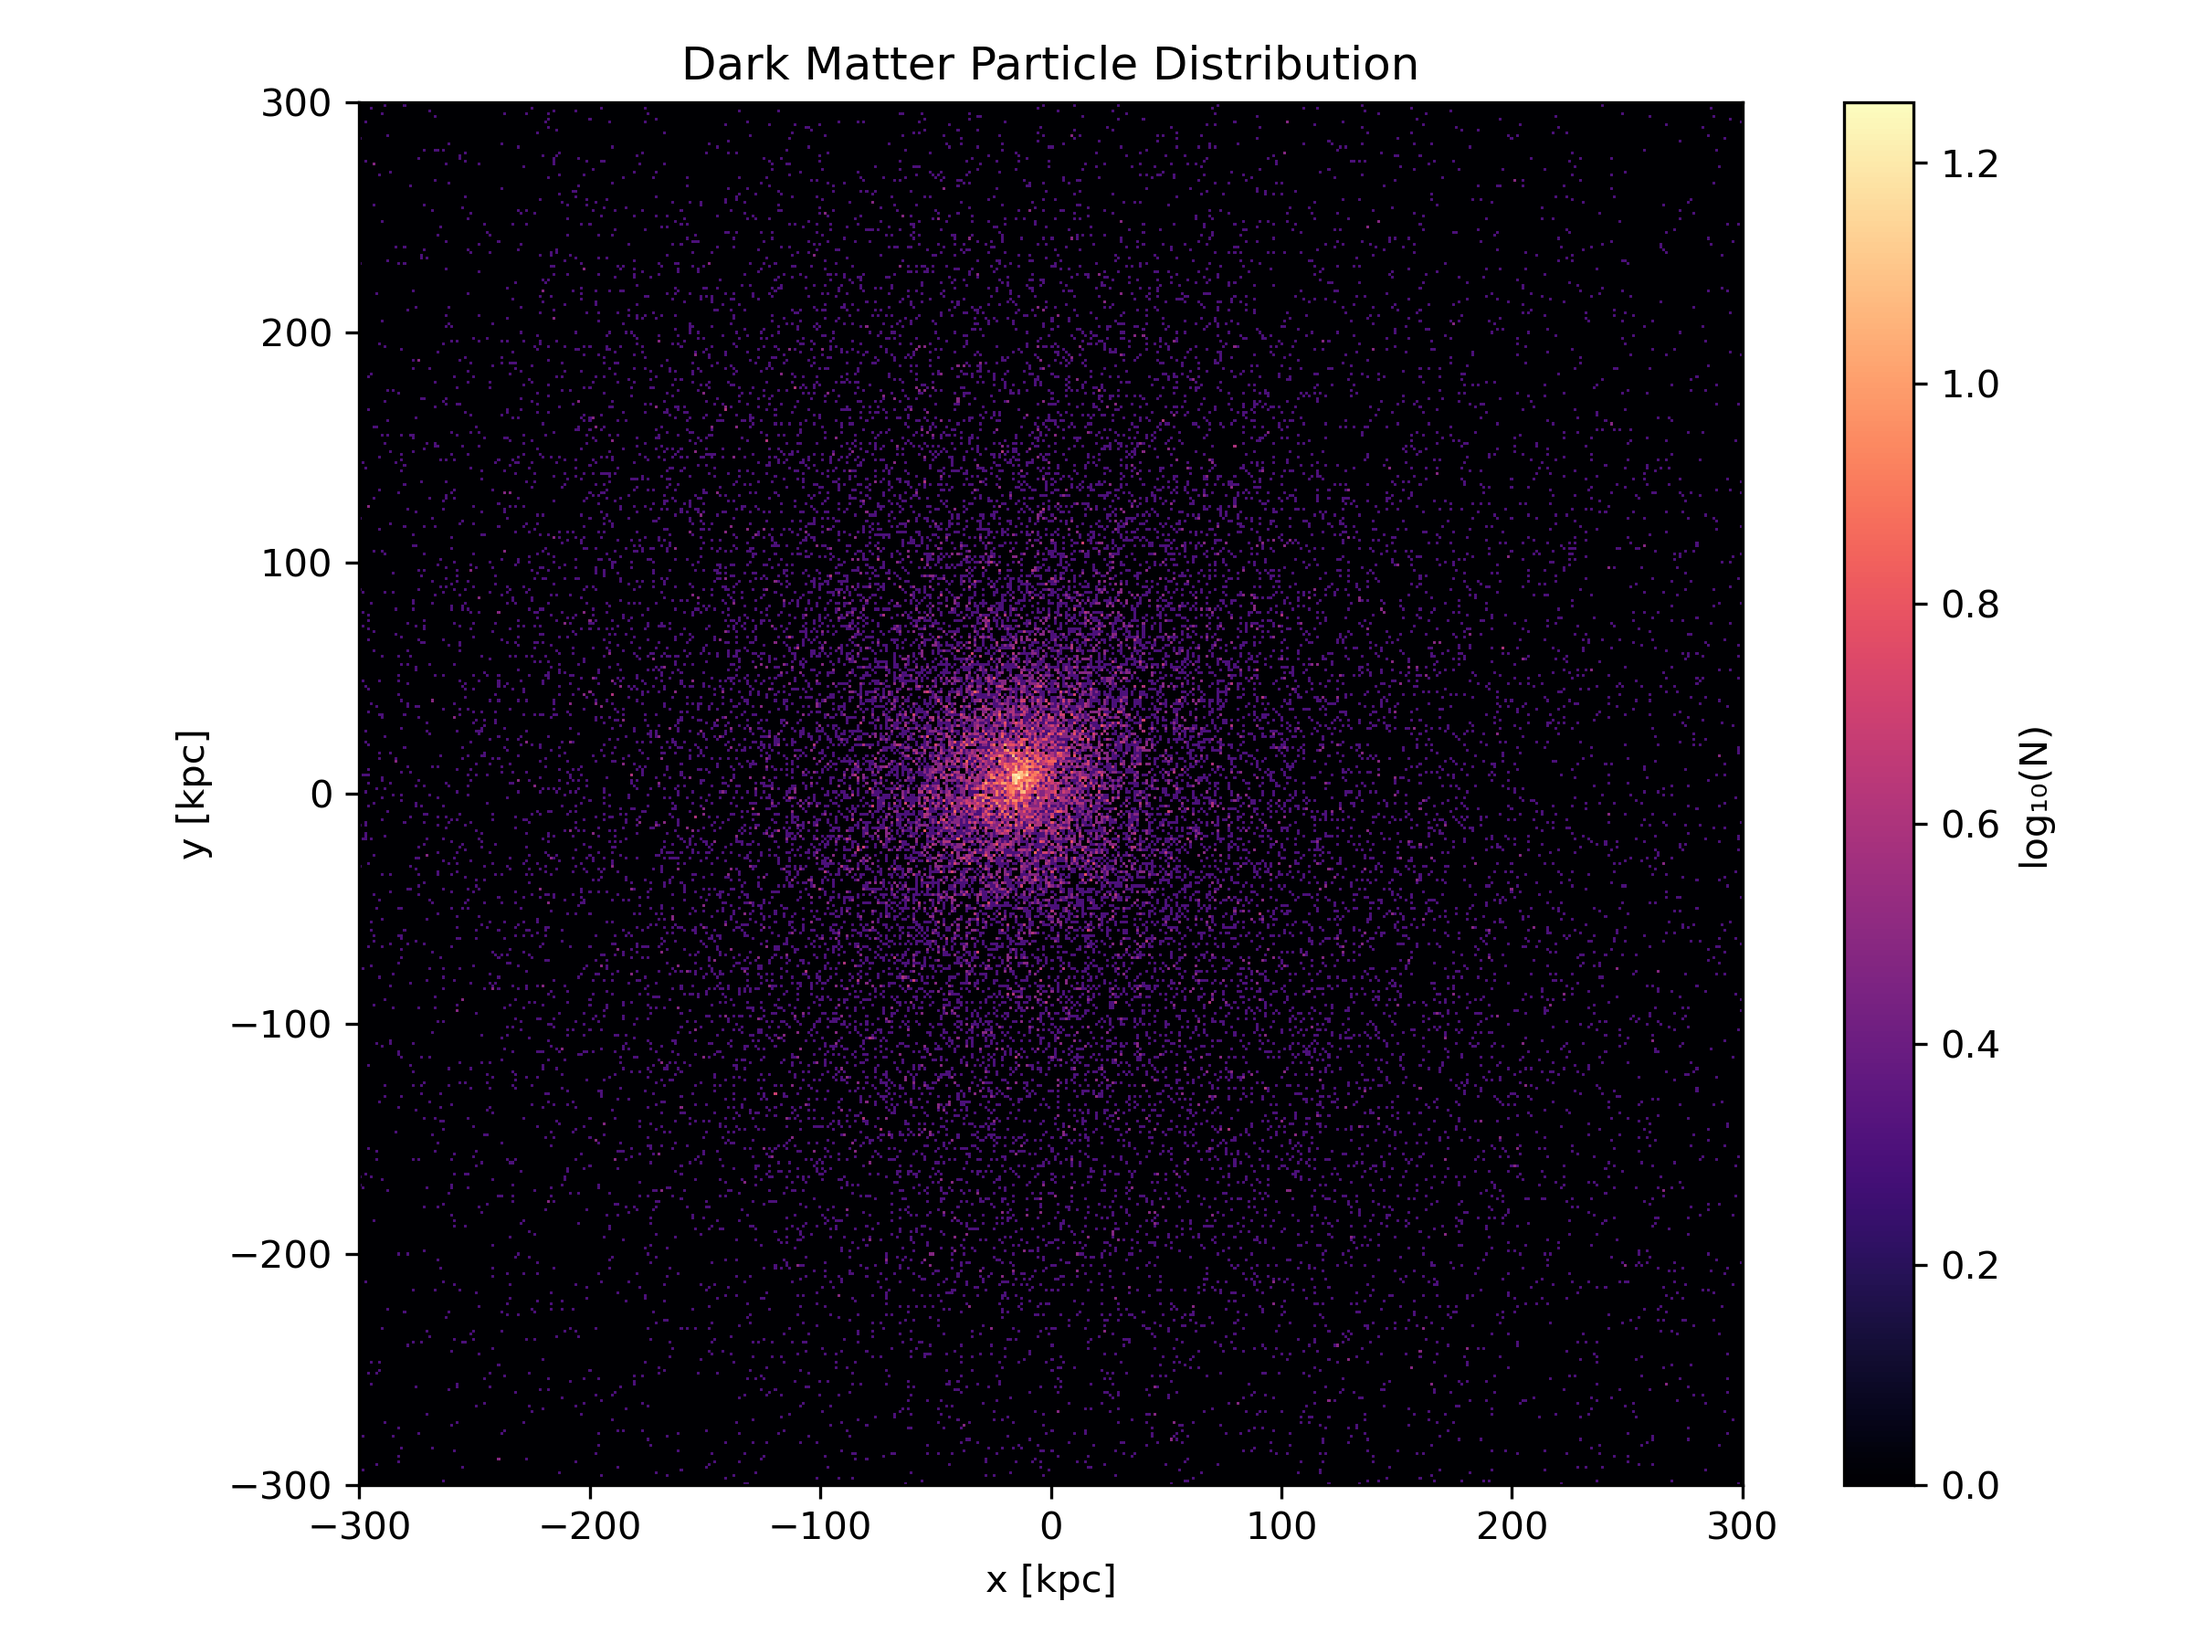
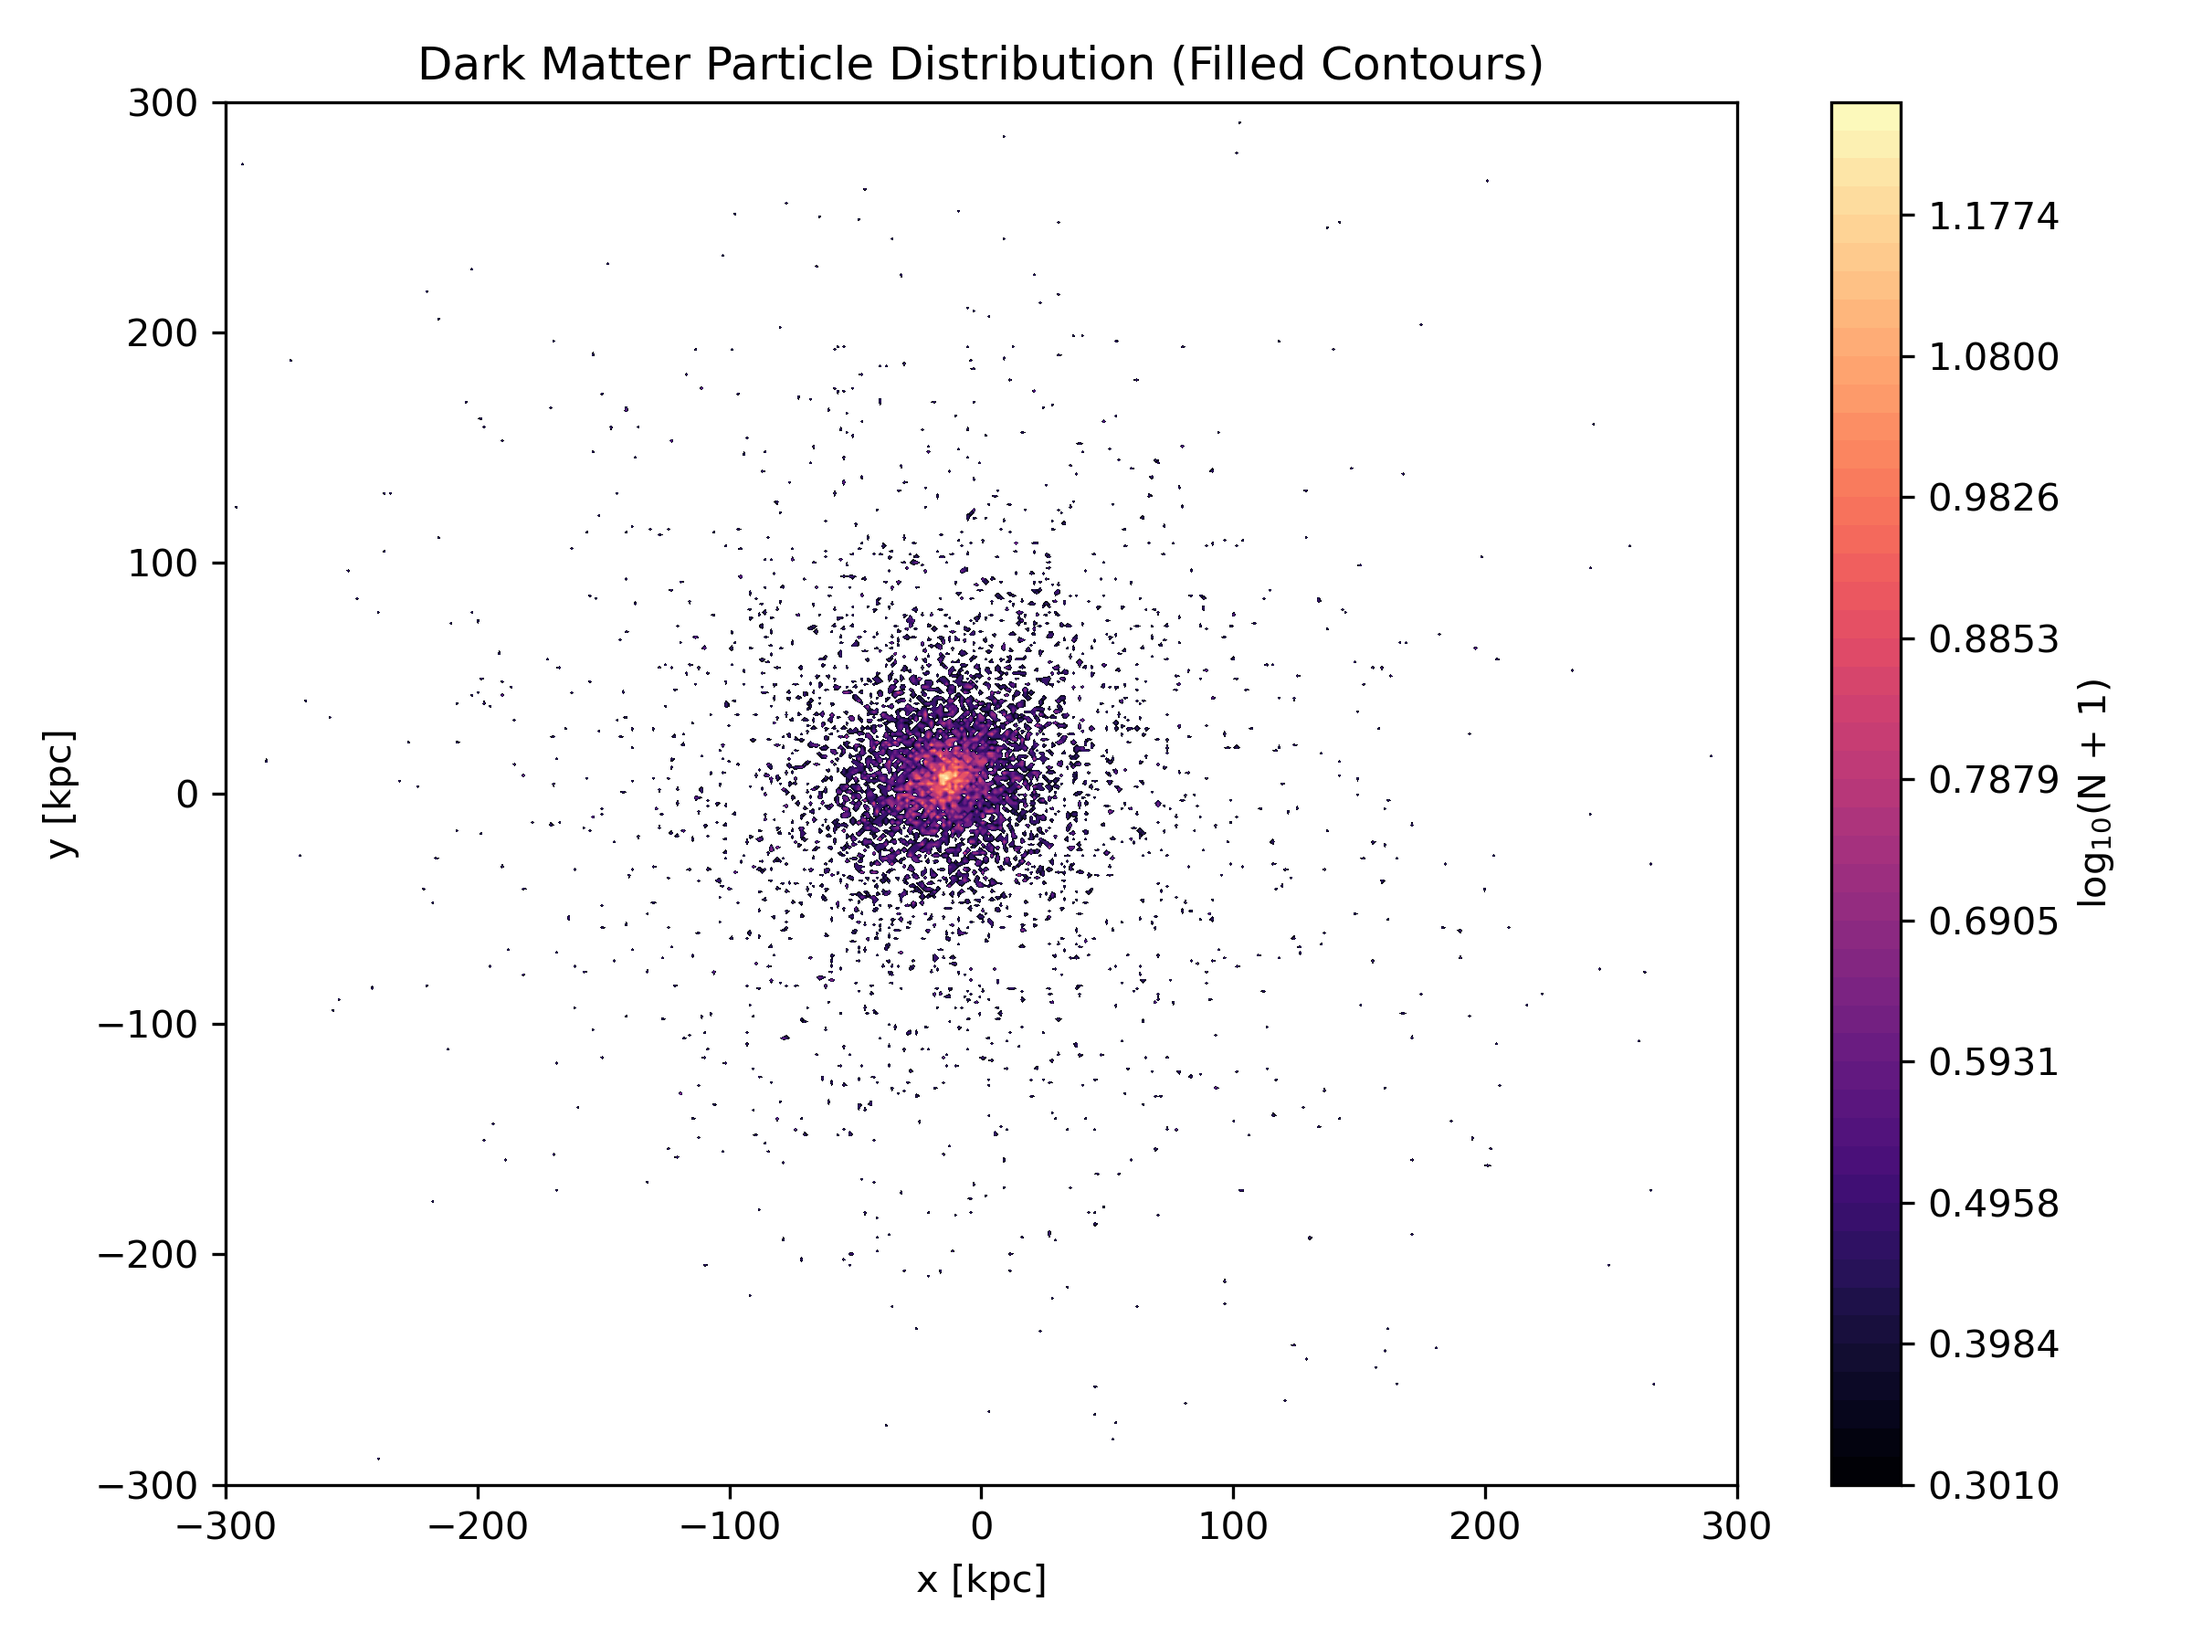
Update code and plots

diff --git a/Research Project/ResearchAssignment6/Code/Final_Code_Draft.py b/Research Project/ResearchAssignment6/Code/Final_Code_Draft.py
@@ -145,7 +145,7 @@ def compute_profiles(r, v_rad, m, rmin=1, rmax=300):
         v_rad_avg: average velocity per bin
     From Homework 6
     """
-    r_bins = np.arange(0.1, 300, 1)
+    r_bins = np.arange(1, rmax, 3)
     r_mid = 0.5*(r_bins[:-1] +r_bins[1:])
     density = np.zeros(np.size(r_bins)-1)
     v_rad_avg = np.zeros(np.size(r_bins)-1)
@@ -264,30 +264,51 @@ def plot_radial_velocity_profile(r_mid, v_rad_avg):
 
 
 # %% Plot dark matter spatial contour
+
 def plot_dm_contour(merged, COM):
     """
-    Create 2D contour of dark matter distribution
+    Create 2D filled contour plot of dark matter distribution.
     
     Inputs:
         merged: dict, merged particle data
         COM: array, center of mass
-    From Lab 7
+        
+    (version with filled contours.)
+    (Plot assistance with Chatgpt)
     """
-    x = merged['x']-COM[0]
-    y = merged['y']-COM[1]
+    x = merged['x'] - COM[0]
+    y = merged['y'] - COM[1]
     bins = 500
-    extent =300
+    extent = 300
+
+    # 2D histogram
     H, xedges, yedges = np.histogram2d(x, y, bins=bins, range=[[-extent, extent], [-extent, extent]])
+
+    # Take log scale
     H = np.log10(H + 1)
+
+    xcenters = 0.5 * (xedges[:-1] + xedges[1:]) 
+    ycenters = 0.5 * (yedges[:-1] + yedges[1:])
+    X, Y = np.meshgrid(xcenters, ycenters)
+
     plt.figure(figsize=(8, 6))
-    plt.imshow(H.T, origin='lower', cmap='magma', extent=[-extent, extent, -extent, extent])
+
+    levels = np.linspace(np.min(H[H > 0]), np.max(H), 50)
+
+    contourf = plt.contourf(X, Y, H.T, levels=levels, cmap='magma')
+    
+    cbar = plt.colorbar(contourf)
+    cbar.set_label('log$_{10}$(N + 1)')  
+
     plt.xlabel('x [kpc]')
     plt.ylabel('y [kpc]')
-    plt.title('Dark Matter Particle Distribution')
-    plt.colorbar(label='log₁₀(N)')
+    plt.title('Dark Matter Particle Distribution (Filled Contours)')
+    plt.xlim(-extent, extent)
+    plt.ylim(-extent, extent)
     plt.tight_layout()
     plt.savefig("DarkMatter_Contour.png", dpi=300)
     plt.show()
+
 
 # %% Execute all analysis steps
 merged=merge_snapshots(file1, file2)
